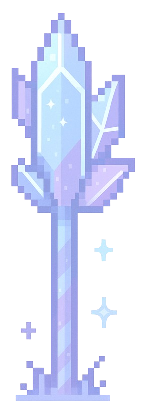
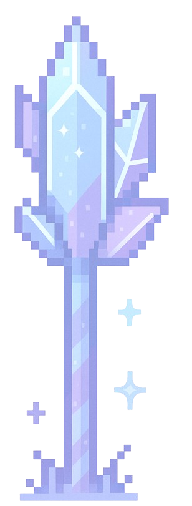
scrolling changes for obs

diff --git a/game.py b/game.py
@@ -1,5 +1,6 @@
 import pygame
 from pygame.locals import *
+import random
 
 pygame.init()
 
@@ -83,6 +84,8 @@ class Pipe(pygame.sprite.Sprite):
     
     def update(self, *args, **kwargs):
         self.rect.x -= scroll_speed
+        if self.rect.right < 0:
+            self.kill()
 
 bird_group = pygame.sprite.Group()
 pipe_group = pygame.sprite.Group()
@@ -121,11 +124,13 @@ while run:
 
 
     #ground photo scrolling
-    if game_over == False: 
+    if game_over == False and flying == True: 
         time_now = pygame.time.get_ticks()
         if time_now - last_pipe > pipe_frq:
-            btm_pipe = Pipe(screen_width,int(screen_height/2),-1)
-            top_pipe = Pipe(screen_width,int(screen_height/2),1)
+            pipe_height = random.randint(-100,100)
+
+            btm_pipe = Pipe(screen_width,int(screen_height/2) + pipe_height,-1)
+            top_pipe = Pipe(screen_width,int(screen_height/2) + pipe_height, 1)
             pipe_group.add(btm_pipe)
             pipe_group.add(top_pipe)   
             last_pipe = time_now
